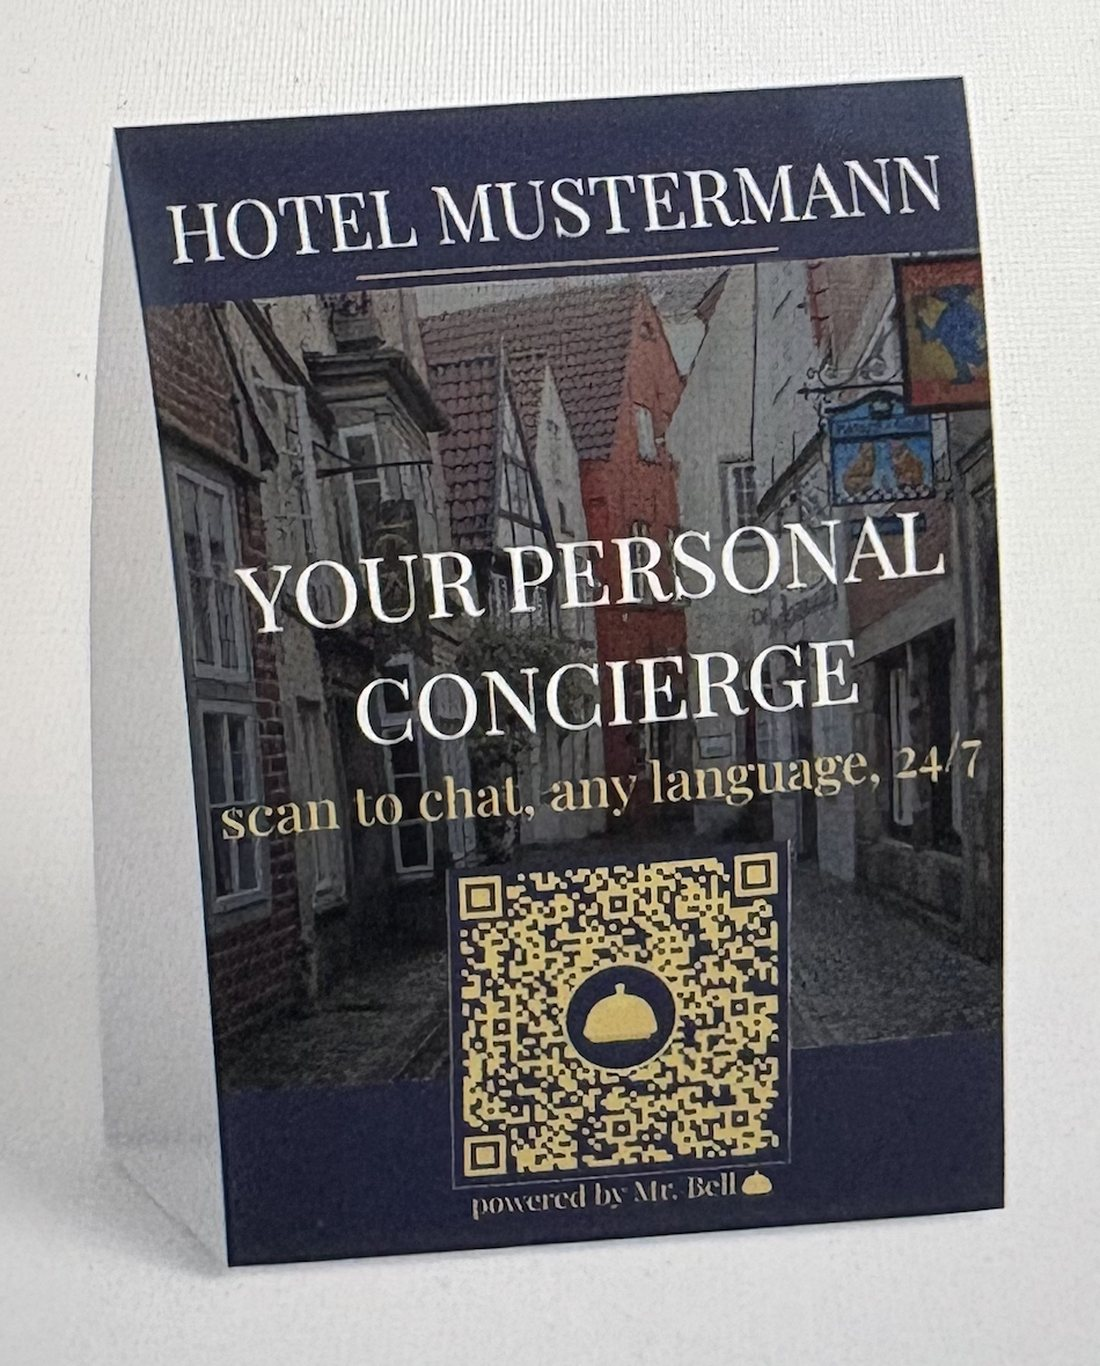
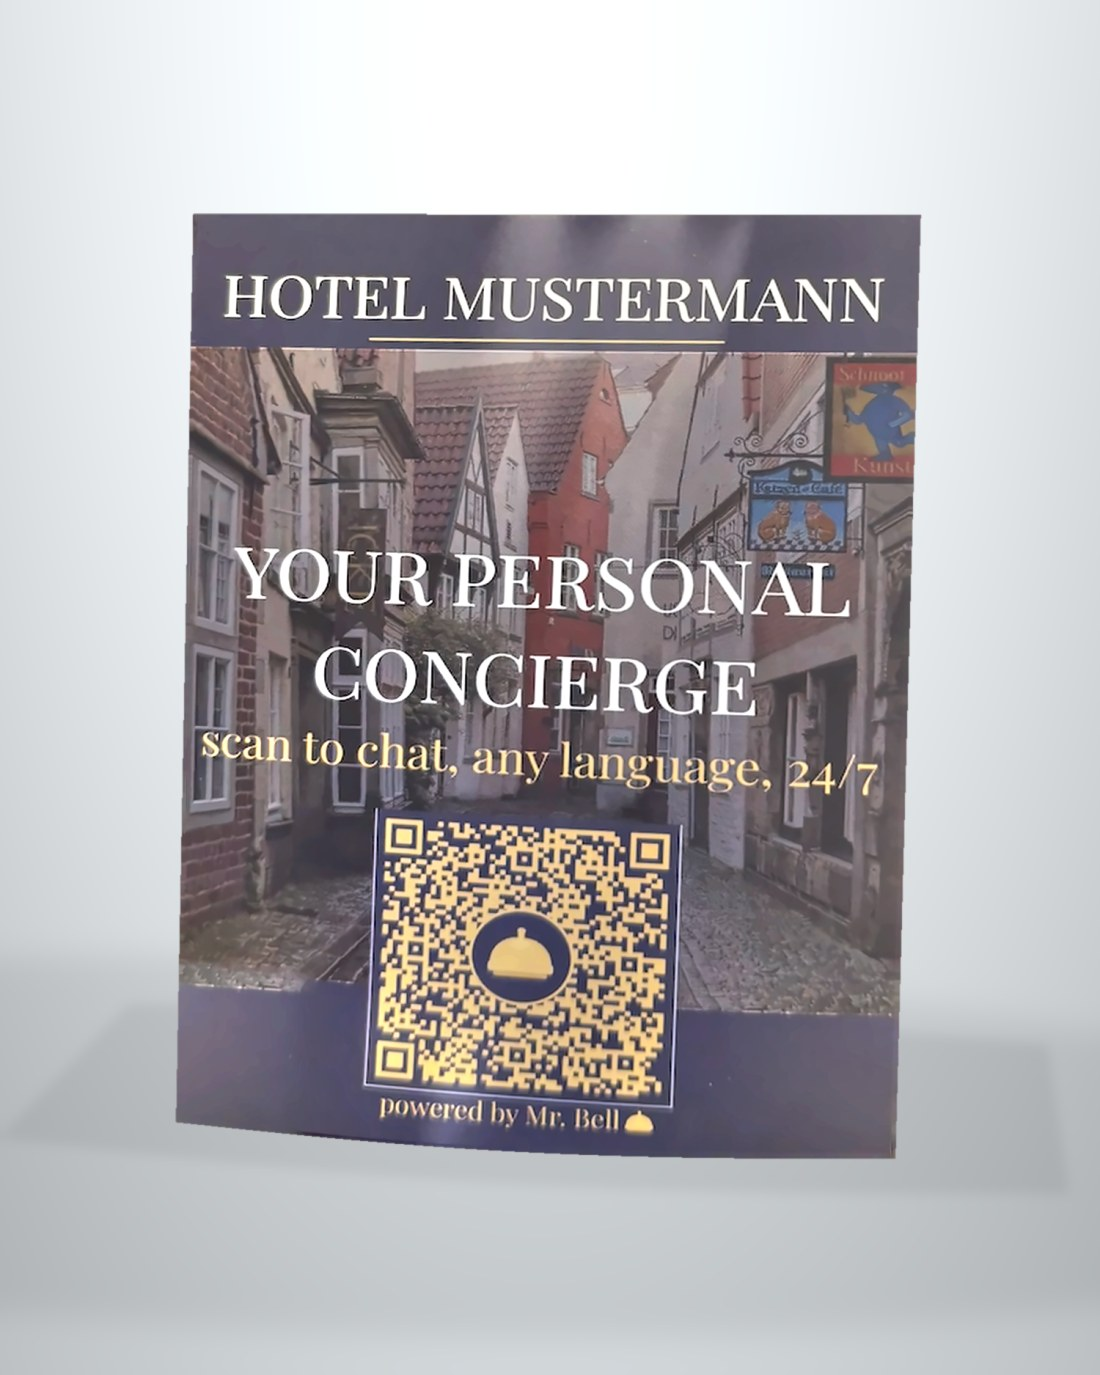
Aufsteller-Galerie: Studio-Renderings aus dem echten Druck (3 Ansichten + Masse)
Artwork per Perspektivkorrektur aus dem Foto des gedruckten Aufstellers
extrahiert und farbkorrigiert, dann auf das echte Format (15x12x5 cm,
leicht gewoelbt) gerendert. Typografie und QR-Code bleiben damit
pixelgenau das Original - in allen drei Ansichten scannbar geprueft.

Claude-Session: https://claude.ai/code/session_01Dwkb6LCGZH2Q56yqw1FfwQ

diff --git a/partner/index.html b/partner/index.html
@@ -37,14 +37,14 @@
   .hidden{display:none!important}
 
   /* Aufsteller-Fotos */
+  /* Spaltenbreiten = Seitenverhaeltnisse der drei Bilder -> alle drei gleich hoch */
   .shots{margin:30px 0 0;padding:0;display:grid;gap:14px;
-         grid-template-columns:1.15fr .85fr .9fr;align-items:start}
+         grid-template-columns:.80fr .93fr 1.08fr;align-items:start}
   .shots img{width:100%;height:auto;display:block;border-radius:3px;
              background:#f2f1ec;box-shadow:0 1px 2px rgba(20,27,51,.06),0 10px 26px -16px rgba(20,27,51,.30)}
   .shots figcaption{grid-column:1/-1;margin-top:4px;font-size:13px;color:var(--muted)}
-  @media (max-width:760px){
-    .shots{grid-template-columns:1fr 1fr;gap:10px}
-    .shots img:first-child{grid-column:1/-1}
+  @media (max-width:860px){
+    .shots{grid-template-columns:1fr;gap:12px}
   }
 </style>
 </head>
@@ -161,13 +161,13 @@
         Ihr Gast muss nichts installieren: Kamera drauf, WhatsApp öffnet sich.</p>
       </div>
       <figure class="shots">
-        <img src="/aufsteller-studio.jpg" width="1100" height="1366" loading="lazy" decoding="async"
+        <img src="/aufsteller-studio.jpg" width="1100" height="1375" loading="lazy" decoding="async"
              alt="Aufsteller von vorne: Hotelname oben, Stadtmotiv, QR-Code, Hinweis &bdquo;scan to chat, any language, 24/7&ldquo;">
-        <img src="/aufsteller-seite.jpg" width="1100" height="1215" loading="lazy" decoding="async"
-             alt="Aufsteller von der Seite: leicht gew&ouml;lbte Zeltform, steht von selbst">
-        <img src="/aufsteller-hand.jpg" width="1100" height="1395" loading="lazy" decoding="async"
-             alt="Aufsteller in der Hand, zeigt die Gr&ouml;&szlig;e">
-        <figcaption>Fotos des gedruckten Aufstellers &mdash; hier mit dem Beispielnamen
+        <img src="/aufsteller-seite.jpg" width="1100" height="1178" loading="lazy" decoding="async"
+             alt="Aufsteller schr&auml;g von der Seite: Zeltform, steht ohne St&auml;nder von selbst">
+        <img src="/aufsteller-masse.jpg" width="1100" height="1015" loading="lazy" decoding="async"
+             alt="Aufsteller mit Ma&szlig;angaben: 15 cm hoch, 12 cm breit, 5 cm tief">
+        <figcaption>Der gedruckte Aufsteller &mdash; hier mit dem Beispielnamen
         &bdquo;Hotel Mustermann&ldquo;.</figcaption>
       </figure>
 
